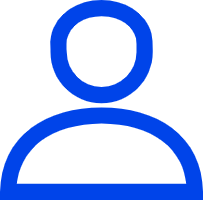
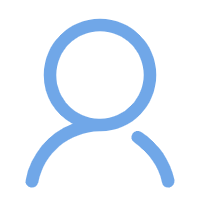
patientsHeader finished

diff --git a/src/components/Main/Patients/PatientHeader.vue b/src/components/Main/Patients/PatientHeader.vue
@@ -1,14 +1,31 @@
 <template>
-  <el-header style="text-align: right; font-size: 12px">
-    <el-dropdown>
-      <i class="el-icon-setting" style="margin-right: 15px"></i>
-      <el-dropdown-menu slot="dropdown">
-        <el-dropdown-item>查看</el-dropdown-item>
-        <el-dropdown-item>新增</el-dropdown-item>
-        <el-dropdown-item>删除</el-dropdown-item>
-      </el-dropdown-menu>
-    </el-dropdown>
-    <span>王小虎</span>
+  <el-header>
+    <div class="nav-left">
+      <img src="../../../assets/people.png" alt="" />
+      <span class="page"><strong>Patient List</strong></span>
+      <span class="list"><strong>List</strong></span>
+      <span class="Thumbmnail"><strong>Thumbmnail</strong></span>
+    </div>
+    <div class="nav-right">
+      <el-input
+        class="searchInput"
+        clearable
+        placeholder="Search"
+        prefix-icon="el-icon-search"
+        v-model="input2"
+        size="small"
+      >
+      </el-input>
+      <el-dropdown style="text-align: right">
+        <i class="el-icon-setting" style="margin-right: 15px"></i>
+        <el-dropdown-menu slot="dropdown">
+          <el-dropdown-item>查看</el-dropdown-item>
+          <el-dropdown-item>新增</el-dropdown-item>
+          <el-dropdown-item>删除</el-dropdown-item>
+        </el-dropdown-menu>
+      </el-dropdown>
+      <i style="text-align: right" class="el-icon-bell"></i>
+    </div>
   </el-header>
 </template>
 
@@ -16,7 +33,56 @@
 // import PatientTools from "../Main/patientList/PatientTools.vue";
 // import PatientLists from "../Main/patientList/PatientLists.vue";
 
-// export default {
-//   components: { PatientTools, PatientLists }, // 有s
-// };
+export default {
+  data() {
+    return {
+      input2: "",
+    };
+  },
+};
 </script>
+
+<style scoped>
+.el-header {
+  border-bottom: 1px solid #e6e6e6;
+  display: flex;
+  align-items: center;
+  justify-content: flex-end;
+}
+img {
+  height: 30px;
+  width: 30px;
+  margin-right: 30px;
+}
+
+span {
+  margin-right: 30px;
+}
+
+.list {
+  font-size: 12px;
+  color: #70a7e8;
+}
+
+.Thumbmnail {
+  font-size: 12px;
+  color: lightgray;
+}
+.nav-left,
+.nav-right {
+  display: flex;
+  align-items: center;
+}
+
+.nav-left {
+  margin-right: auto;
+}
+
+.el-input {
+  margin-right: 20px;
+}
+
+.searchInput >>> .el-input__inner {
+  border-radius: 20px;
+}
+</style>

diff --git a/src/components/AsideNavbar/Navbar.vue b/src/components/AsideNavbar/Navbar.vue
@@ -1,29 +1,48 @@
 <template>
-  <el-aside width="200px">
+  <el-aside width="210px">
     <div class="logo">
       <img src="../../../src/assets/tooth.png" alt="" />
       <div>
         <h2>Zendenta</h2>
         <p>Mordern Dental Clinic</p>
       </div>
+      <img class="menu" src="../../../src/assets/menu.png" alt="" />
     </div>
     <el-menu :default-openeds="['1', '3']">
       <el-submenu index="1">
         <template slot="title"
-          ><i class="el-icon-message"></i>
+          ><i class="el-icon-user"></i>
           <router-link to="/patient">Patient List</router-link></template
         >
       </el-submenu>
       <el-submenu index="2">
         <template slot="title"
-          ><i class="el-icon-menu"></i
+          ><i class="el-icon-chat-dot-round"></i
           ><router-link to="/message">Message</router-link></template
         >
       </el-submenu>
       <el-submenu index="3">
         <template slot="title"
-          ><i class="el-icon-setting"></i
+          ><i class="el-icon-money"></i
           ><router-link to="/test">Payment Information</router-link></template
+        >
+      </el-submenu>
+      <el-submenu index="3">
+        <template slot="title"
+          ><i class="el-icon-money"></i
+          ><router-link to="/test">Overview</router-link></template
+        >
+      </el-submenu>
+      <el-submenu index="3">
+        <template slot="title"
+          ><i class="el-icon-money"></i
+          ><router-link to="/test">Setting</router-link></template
+        >
+      </el-submenu>
+      <el-submenu index="3">
+        <template slot="title"
+          ><i class="el-icon-money"></i
+          ><router-link to="/test">Calendar</router-link></template
         >
       </el-submenu>
     </el-menu>
@@ -35,8 +54,9 @@
 .logo {
   display: flex;
   align-items: center;
-  margin-top: 10px;
-  margin-bottom: 20px;
+  padding-top: 10px;
+  padding-bottom: 20px;
+  border-right: 1px solid #e6e6e6;
 }
 
 .logo img {
@@ -54,5 +74,9 @@
 .logo p {
   color: lightgray;
   font-size: 12px;
+}
+.logo .menu {
+  width: 20px;
+  height: 20px;
 }
 </style>

diff --git a/src/App.vue b/src/App.vue
@@ -23,7 +23,7 @@ export default {
       address: "上海市普陀区金沙江路 1518 弄",
     };
     return {
-      tableData: Array(20).fill(item),
+      tableData: Array(5).fill(item),
     };
   },
 };
@@ -38,7 +38,6 @@ body {
 }
 
 .el-header {
-  background-color: #b3c0d1;
   color: #333;
   line-height: 60px;
 }

diff --git a/src/components/Main/Patients/PatientTools.vue b/src/components/Main/Patients/PatientTools.vue
@@ -8,6 +8,6 @@
         <el-dropdown-item>删除</el-dropdown-item>
       </el-dropdown-menu>
     </el-dropdown>
-    <span>王小虎</span>
+    <i class="el-icon-bell"></i>
   </el-header>
 </template>
